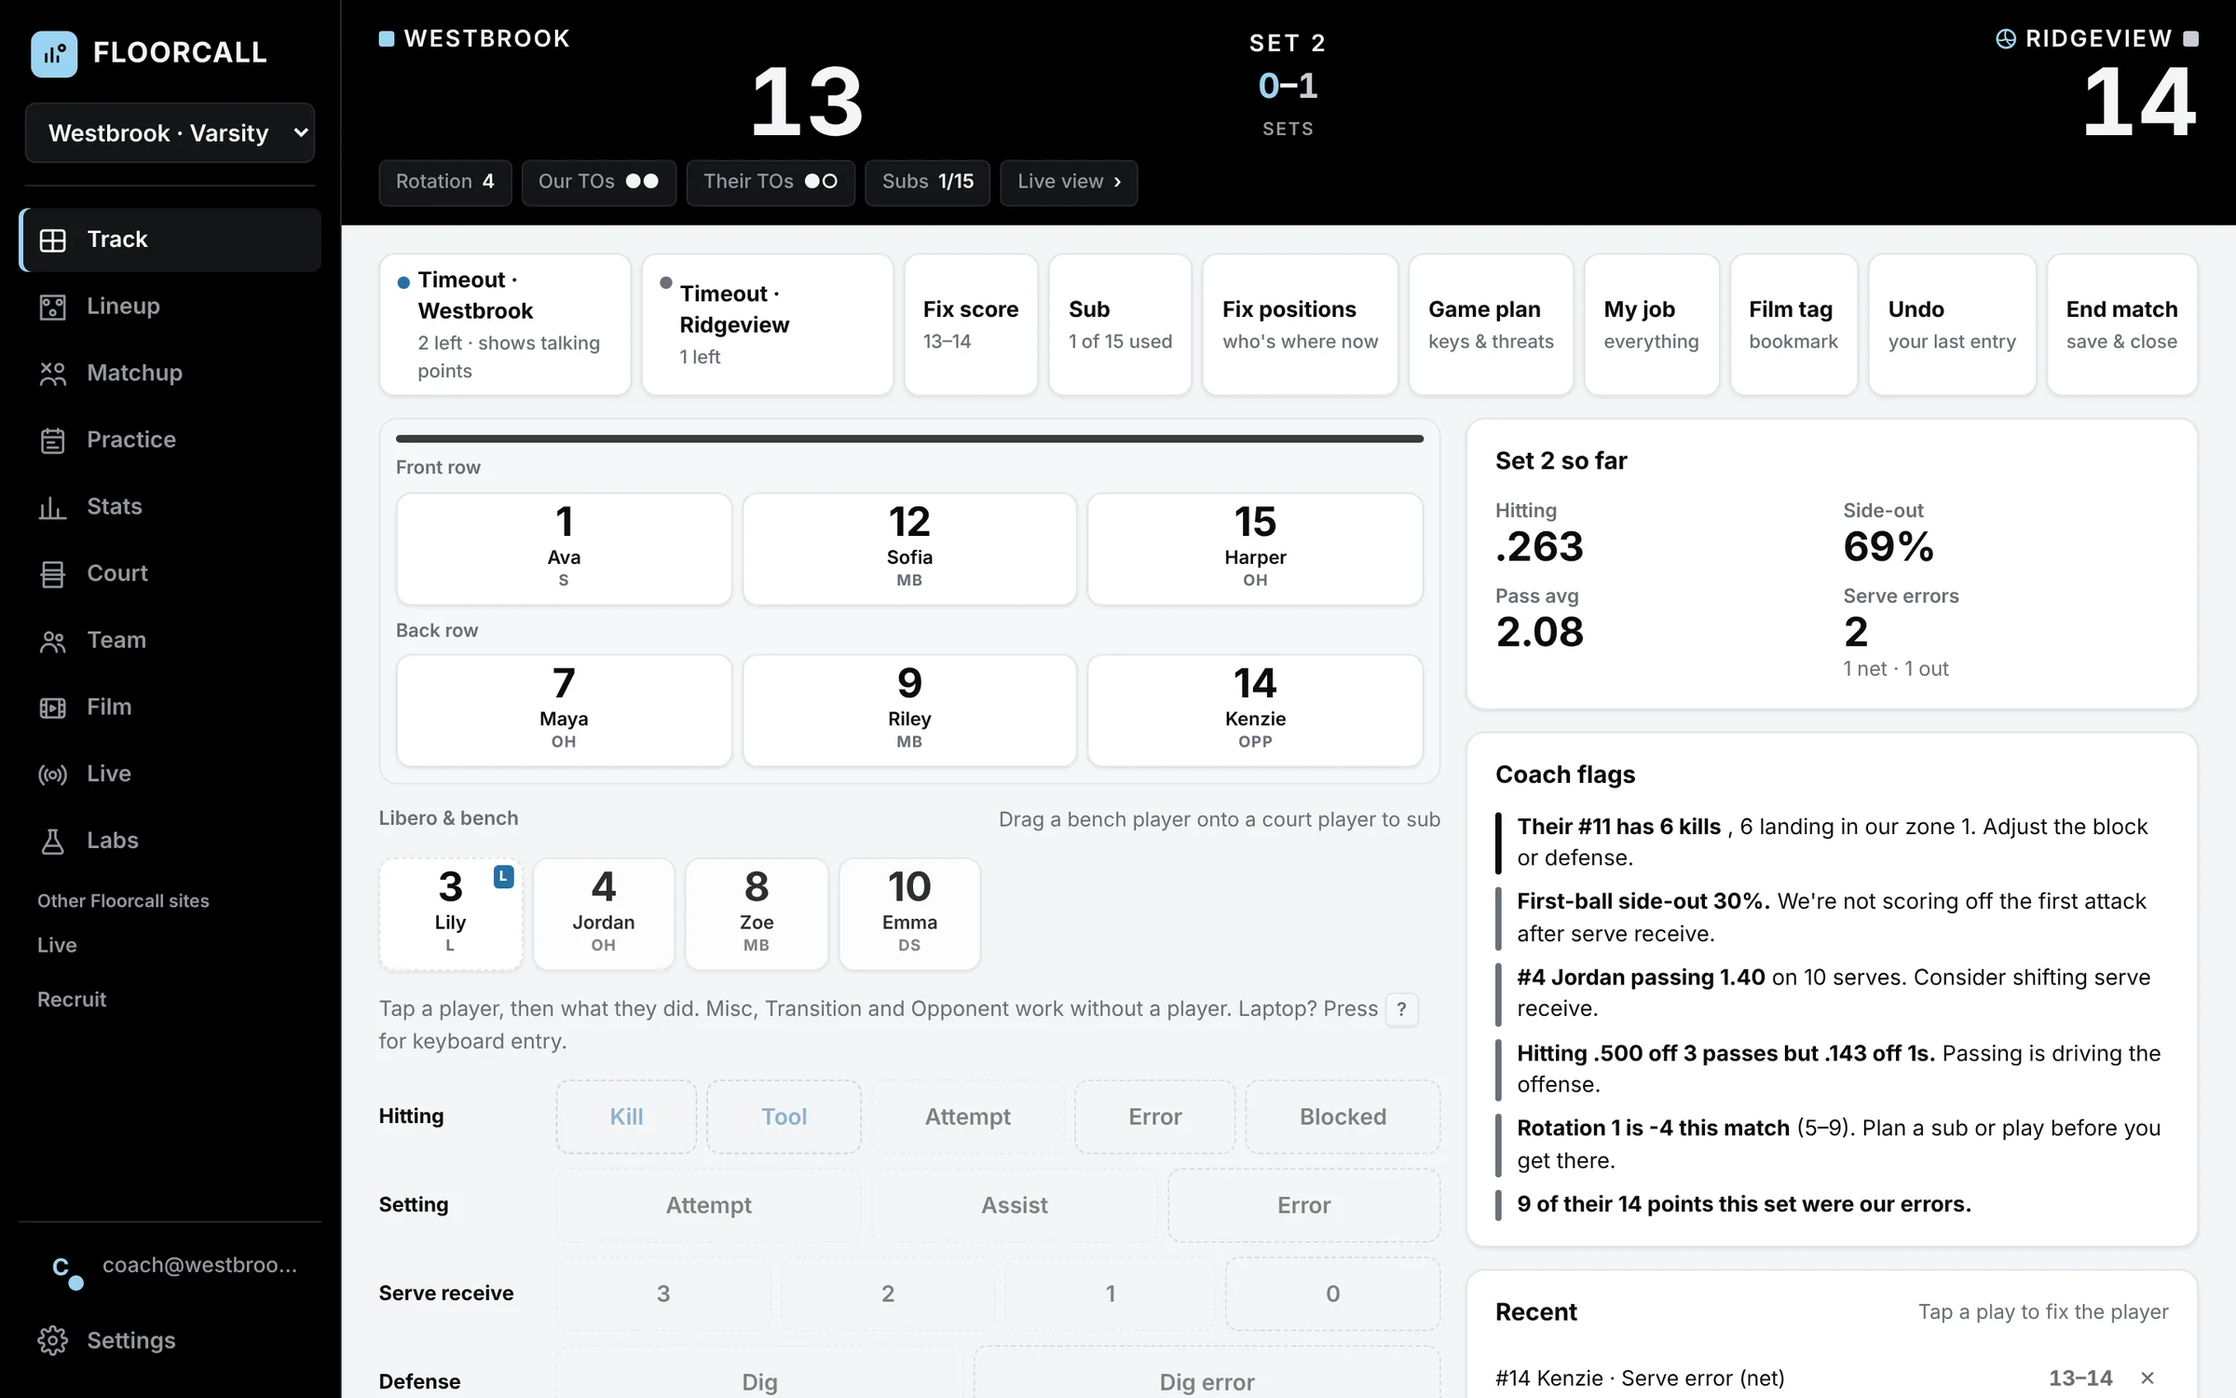
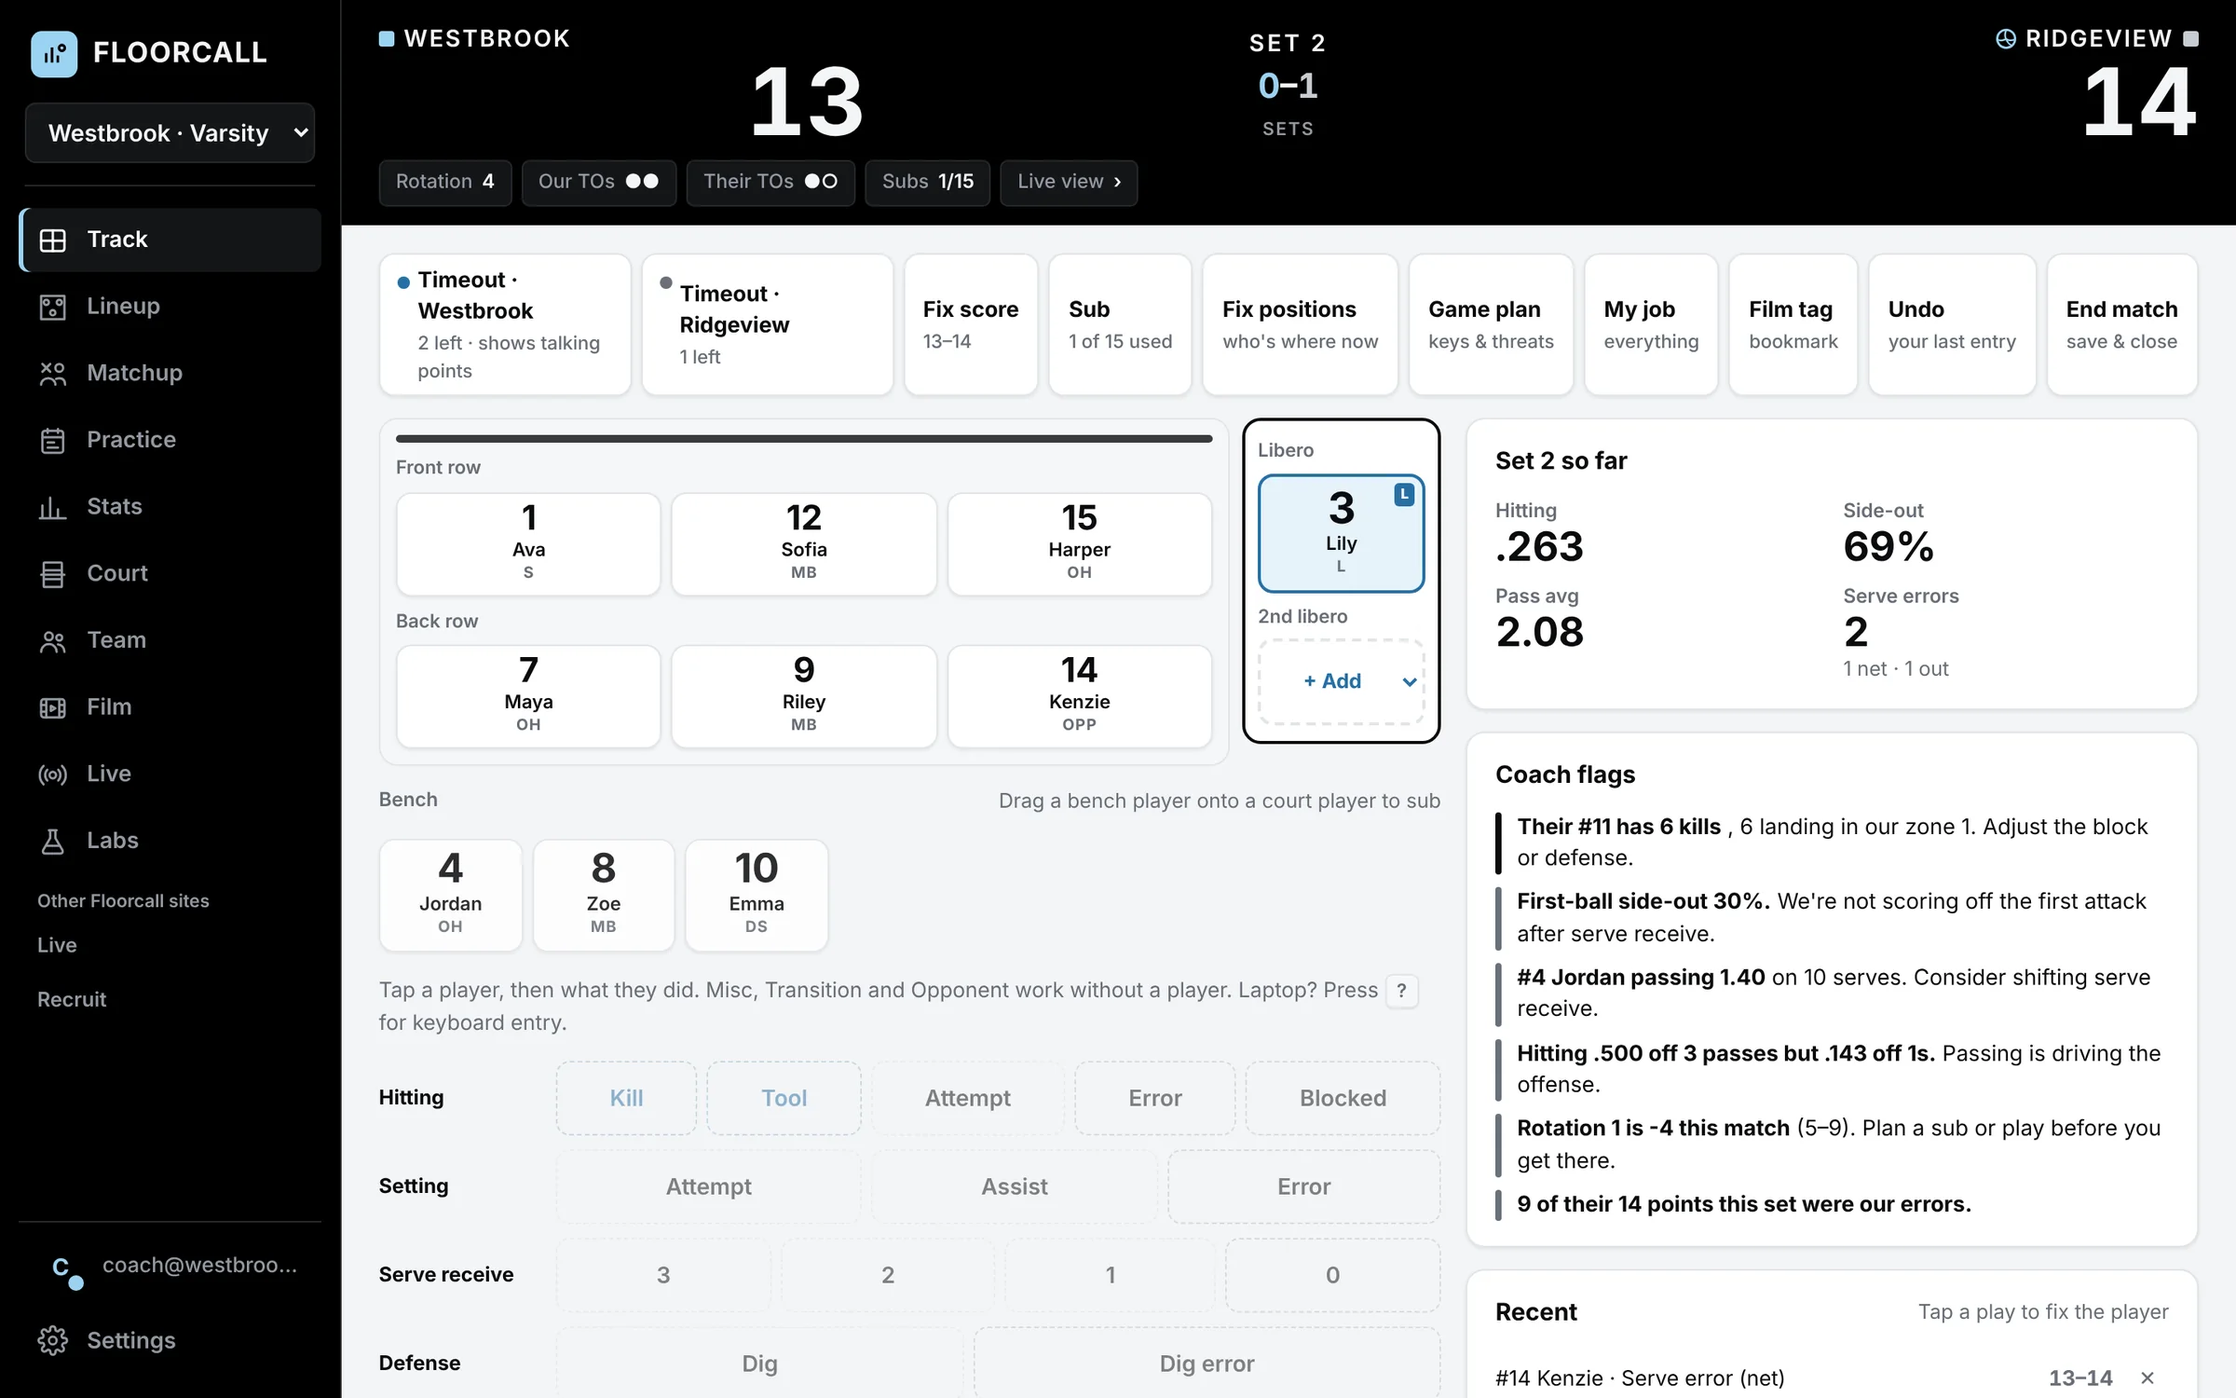
Live demo game that plays itself, product page shows the new Live
live.getfloorcall.com/#/demo plays a whole sample match point by point on
the real gamecast (court, play-by-play, box score, leaders) with pause,
speed and set jumps; no account or cloud needed. Linked from the Live
home page and the product page hero. Product page: new gamecast, box
score and leaders shots, a fresh tracking shot, and the newer features
in the list.

Claude-Session: https://claude.ai/code/session_01YRQnFVR7WDsKFYJfEAhBVD

diff --git a/public/about.html b/public/about.html
@@ -128,7 +128,7 @@ footer nav{display:flex;gap:20px;flex-wrap:wrap}footer a{color:var(--grey)}
 <section class="hero"><div class="wrap">
   <h1>The stat sheet that coaches from the bench.</h1>
   <p class="lead">Track every touch live, see the numbers that decide matches, and get stats to your players, families and recruiters before you leave the gym.</p>
-  <div class="btns"><a class="btn solid" href="%APP%#/account/signup">Create a free account</a><a class="btn plain" href="%APP%#/sample">Try a sample season</a></div>
+  <div class="btns"><a class="btn solid" href="%APP%#/account/signup">Create a free account</a><a class="btn plain" href="%LIVE%#/demo">Watch a live demo</a></div>
   <div class="hero-art">
     <div class="screen"><img src="shots/app-track.webp" width="2400" height="1500" alt="Floorcall during a match: the scoreboard, all six players in their rotation, stat buttons and coach flags such as their #11 having six kills"></div>
     <div class="phone"><img src="shots/live-game.webp" width="780" height="1688" alt="The same match on a parent's phone in Floorcall Live"></div>
@@ -159,13 +159,13 @@ footer nav{display:flex;gap:20px;flex-wrap:wrap}footer a{color:var(--grey)}
 <section class="sec soft" id="live"><div class="wrap">
   <div class="head">
     <h2>Families follow every point.</h2>
-    <p class="lead">Floorcall Live turns your tracking into a gamecast, box score and play-by-play on any phone. Share one link or a six-letter code, and followers get a notification when the match starts and ends.</p>
-    <a class="more" href="%LIVE%">Visit Floorcall Live</a>
+    <p class="lead">Floorcall Live turns your tracking into a broadcast-style gamecast: the court with where every ball landed, play-by-play with the player next to each play, a full box score and game leaders, on any phone. Share one link or a six-letter code, and followers get a notification when the match starts and ends.</p>
+    <a class="more" href="%LIVE%#/demo">Watch a demo game</a>
   </div>
   <div class="art phones">
-    <div class="phone side"><img src="shots/live-team.webp" width="780" height="1688" loading="lazy" alt="A team's page on Floorcall Live with the live score and recent plays"></div>
-    <div class="phone mid"><img src="shots/live-game.webp" width="780" height="1688" loading="lazy" alt="A live gamecast showing the score and who is on the court"></div>
-    <div class="phone side"><img src="shots/live-box.webp" width="780" height="1688" loading="lazy" alt="The box score with kills, errors, attempts and hitting percentage for each player"></div>
+    <div class="phone side"><img src="shots/live-box.webp" width="780" height="1688" loading="lazy" alt="The box score: starters and bench with kills, errors, attempts and hitting percentage, then the other team's players"></div>
+    <div class="phone mid"><img src="shots/live-game.webp" width="780" height="1688" loading="lazy" alt="The gamecast: the last play called out above the court, the ball's flight to where it landed, and the play-by-play below"></div>
+    <div class="phone side"><img src="shots/live-leaders.webp" width="780" height="1688" loading="lazy" alt="Game leaders for kills, points, assists and aces, with both teams side by side"></div>
   </div>
 </div></section>
 
@@ -200,9 +200,13 @@ footer nav{display:flex;gap:20px;flex-wrap:wrap}footer a{color:var(--grey)}
     <div><h3>Practice plans</h3><p>Built from what the stats say to work on, with a drill library and attendance.</p></div>
     <div><h3>Player pages</h3><p>Trends, goals and a report card for every player.</p></div>
     <div><h3>Ask your stats</h3><p>“Who should pass in rotation 2?” answered from your own numbers.</p></div>
+    <div><h3>An errors page</h3><p>Every point you gave away, by kind, by player and by rotation.</p></div>
+    <div><h3>Pick your stats</h3><p>Choose the columns you care about for the team or one player, then print.</p></div>
+    <div><h3>Their roster</h3><p>Enter their numbers, and names if you like, so you know who's scoring on you.</p></div>
     <div><h3>Fix plays</h3><p>Change, delete or add any play afterward. Everything recalculates.</p></div>
     <div><h3>Scrimmages</h3><p>Split the roster, track both sides and compare.</p></div>
     <div><h3>Keyboard entry</h3><p>Stat keepers on a laptop type a jersey number and a letter.</p></div>
+    <div><h3>Two liberos</h3><p>Name one or two and swap them between rallies; stats follow whoever is in.</p></div>
     <div><h3>Clubs</h3><p>Every team's record, numbers and next match on one screen.</p></div>
   </div>
 </div></section>

diff --git a/src/live/Demo.tsx b/src/live/Demo.tsx
@@ -1,0 +1,49 @@
+/** Floorcall Live demo (#/demo): a whole sample match that plays itself, point by point, on the real gamecast.
+ * No account, no cloud: the events are generated here and revealed on a timer, so anyone can see Live working. */
+import { useEffect, useMemo, useRef, useState } from "react";
+import { replay } from "../sports/volleyball/engine";
+import { SAMPLE_OPP_ROSTER, SAMPLE_ROSTER, sampleMatch } from "../sports/volleyball/sample";
+import { tr } from "../lib/i18n";
+import { placeUrl } from "../cloud/links";
+import { Game, LMatch, LPlayer } from "./data";
+import { GameView } from "./GameView";
+
+const SPEEDS = [1, 3, 10];
+const STEP = 2400; // ms between plays at 1×
+
+export function DemoGame({ Shell }: { Shell: any }) {
+  const events = useMemo(() => sampleMatch(23, Date.now() - 60 * 60000, { sets: 4, finished: true }), []);
+  const setStarts = useMemo(() => events.map((e, i) => (e.t === "NS" ? i : -1)).filter((i) => i >= 0), [events]);
+  const [n, setN] = useState(() => Math.min(events.length, (setStarts[0] || 0) + 34)); // open mid-set so there's a game on
+  const [speed, setSpeed] = useState(1), [paused, setPaused] = useState(false);
+  const timer = useRef<number | undefined>(undefined);
+  const done = n >= events.length;
+  useEffect(() => {
+    if (paused || done) return;
+    const next = events[n];
+    // touches inside a rally come quicker; a longer breath between sets
+    const wait = (next?.t === "NS" ? STEP * 2.5 : /^(P[0-3]|D|AST|SATT|TA|SI|BT|FB)$/.test(next?.t || "") ? STEP * 0.55 : STEP) / speed;
+    timer.current = window.setTimeout(() => setN((x) => Math.min(events.length, x + 1)), wait);
+    return () => window.clearTimeout(timer.current);
+  }, [n, paused, speed, done, events]);
+  useEffect(() => { document.title = tr("Demo game") + " · Floorcall Live"; }, []);
+
+  const players: LPlayer[] = SAMPLE_ROSTER.map((p) => ({ id: p.id, num: p.num, first: p.first, last: p.last[0], pos: p.pos, photo: null }));
+  const m: LMatch = { id: "demo", opp: "Ridgeview", date: new Date().toISOString().slice(0, 10), bestOf: 5, status: done ? "done" : "live", event: tr("Demo game"), site: "home", kind: "match", oppLogo: null, oppRoster: SAMPLE_OPP_ROSTER };
+  const g: Game = { m, R: replay(events.slice(0, n) as any, { id: "demo", bestOf: 5 }) };
+  const curSet = setStarts.filter((i) => i < n).length;
+  const jumpSet = (k: number) => { const i = setStarts[k]; if (i != null) setN(i + 1); };
+
+  return <Shell team="Westbrook">
+    <section className="lv-demo" aria-label={tr("Demo controls")}>
+      <div className="lv-demo-t"><b>{tr("Demo game")}</b><span>{tr("A sample match playing itself, just as families see a real one. Made-up teams and players.")}</span></div>
+      <div className="lv-demo-c">
+        <button className="btn sm" onClick={() => (done ? setN(setStarts[0] + 1) : setPaused(!paused))}>{done ? tr("Replay") : paused ? tr("Play") : tr("Pause")}</button>
+        <div className="lv-gc-seg" role="group" aria-label={tr("Speed")}>{SPEEDS.map((s) => <button key={s} aria-pressed={speed === s} onClick={() => setSpeed(s)}>{s}×</button>)}</div>
+        <div className="lv-gc-seg" role="group" aria-label={tr("Jump to set")}>{setStarts.map((_, k) => <button key={k} aria-pressed={curSet === k + 1} onClick={() => jumpSet(k)}>{tr("Set {n}", { n: k + 1 })}</button>)}</div>
+        <a className="btn sm primary" href={placeUrl("app", "#/account/signup")}>{tr("Get Floorcall for your team")}</a>
+      </div>
+    </section>
+    <GameView g={g} team="Westbrook" players={players} fresh={done ? tr("Final") : paused ? tr("Paused") : tr("Live demo · {s}×", { s: String(speed) })} logo={null} />
+  </Shell>;
+}

diff --git a/src/live/main.tsx b/src/live/main.tsx
@@ -16,6 +16,7 @@ import { Game, replayOf, useSeason, useWatch } from "./data";
 import { GameView } from "./GameView";
 import { TeamHub } from "./TeamHub";
 import { TeamLogo } from "../ui/Logo";
+import { DemoGame } from "./Demo";
 import { FilmSessionView } from "./FilmSession";
 import { Followed, forgetTeam, myTeams, rememberTeam, syncFollowed } from "./follow";
 import { MiniAuth, SignedIn } from "../cloud/MiniAuth";
@@ -85,6 +86,7 @@ function Landing() {
       <div><input id="code" value={code} onChange={(e) => setCode(e.target.value.toUpperCase())} placeholder="K7Q2XM" autoComplete="off" autoCapitalize="characters" spellCheck={false} maxLength={12} /><button className="btn primary" disabled={busy}>{tr(busy ? "Finding…" : "Follow")}</button></div>
       {err && <p className="lv-err" role="alert">{err}</p>}
     </form>
+    <p className="lv-demo-link"><a href="#/demo">{tr("No code? Watch a demo game")}</a></p>
     {cloudAvailable() && (currentUser() ? <SignedIn t={tr} onOut={() => location.reload()} />
       : signin ? <MiniAuth kind="parent" title={tr("Sign in to see your teams on this phone")} sub={tr("Your teams follow your account to every phone.")} t={tr} onIn={() => location.reload()} />
       : <button className="ma-link lv-signin" onClick={() => setSignin(true)}>{tr("Sign in to see your teams on this phone")}</button>)}
@@ -100,6 +102,7 @@ function LiveApp() {
   if ((r[0] === "t" || r[0] === "g") && r[1] && r[2] === "overlay") return r[0] === "t" ? <TeamRoute key={r[1]} code={r[1].toUpperCase()} rest={[]} /> : <GameRoute key={r[1]} code={r[1].toUpperCase()} />;
   if (r[0] === "t" && r[1]) return <TeamRoute key={r[1]} code={r[1].toUpperCase()} rest={r.slice(2)} />;
   if (r[0] === "g" && r[1]) return <GameRoute key={r[1]} code={r[1].toUpperCase()} />;
+  if (r[0] === "demo") return <DemoGame Shell={Shell} />;
   if (r[0] === "film" && r[1]) return <FilmSessionView key={r[1]} code={r[1].toUpperCase()} Shell={Shell} />;
   return <Landing />;
 }

diff --git a/src/live/live.css b/src/live/live.css
@@ -312,3 +312,13 @@ a.lv-ldr-p:hover b,.lv-ldr-next:hover b{text-decoration:underline}
 .lv-more-row{margin:-4px 0 0;text-align:right;font-weight:600}
 .lv-ebox-h.them{border-bottom-color:#5E6873}
 @media (max-width:560px){.lv-ldr-p.us{border-left:3px solid var(--us);padding-left:10px}.lv-ldr-p.them{border-left:3px solid #8A9099!important;padding-left:10px!important}.lv-ldr-row{grid-template-columns:1fr;gap:10px}.lv-ldr-p.them{padding-left:0;border-left:0;padding-top:10px;border-top:1px dashed var(--line)}.lv-ldr-teams{display:none}.lv-ldr-p strong{font-size:28px}}
+
+/* ---------- demo game ---------- */
+.lv-demo{display:grid;gap:10px;padding:12px 14px;margin:0 0 14px;border-radius:14px;background:#000;color:#fff}
+.lv-demo-t{display:grid;gap:2px}.lv-demo-t b{font:700 15px var(--display);letter-spacing:.08em;text-transform:uppercase;color:var(--us-bright)}.lv-demo-t span{font-size:13.5px;color:#B8C2CC}
+.lv-demo-c{display:flex;flex-wrap:wrap;gap:8px;align-items:center}
+.lv-demo .lv-gc-seg{background:#111;border-color:#333}.lv-demo .lv-gc-seg button{color:#B8C2CC}.lv-demo .lv-gc-seg button[aria-pressed="true"]{background:#fff;color:#000}
+.lv-demo .btn:not(.primary){background:#1B232B;border-color:#333;color:#fff}
+.lv-demo .btn.primary{margin-left:auto}
+@media (max-width:560px){.lv-demo{gap:8px;padding:10px 12px}.lv-demo-t span{display:none}.lv-demo .btn.primary{margin-left:0;width:100%;justify-content:center}.lv-demo .lv-gc-seg button{padding:6px 8px}}
+.lv-demo-link{margin:14px 0 0;font-weight:600}

diff --git a/src/data/seed.ts b/src/data/seed.ts
@@ -1,7 +1,7 @@
 /** Starter content: a drill library for every new team, and a full sample team to explore. */
 import { Drill, Match, Player, PracticePlan } from "./model";
 import { all, appendEvents, createTeam, localISO, save, setTeamPatch, team, uid } from "./store";
-import { SAMPLE_ROSTER, sampleMatch } from "../sports/volleyball/sample";
+import { SAMPLE_OPP_ROSTER, SAMPLE_ROSTER, sampleMatch } from "../sports/volleyball/sample";
 
 const DRILLS: [string, string, number, string, string[]][] = [
   ["Dynamic warm-up + arm care", "Warm-up", 10, "Jog, skips, lunges, band work for shoulders.", []],
@@ -42,7 +42,7 @@ export function createSampleTeam() {
     return x;
   });
   const opps = ["Ridgeview", "Lakeside", "Westbrook", "Valley Prep"];
-  const RIDGE = { "11": { name: "Kayla Moore", pos: "OH" }, "7": { name: "Tess Rivera", pos: "MB" }, "3": { name: "Jada Kim", pos: "S" }, "15": { name: "Brooke Hale", pos: "OPP" }, "9": { name: "Nina Cole", pos: "OH" } };
+  const RIDGE = SAMPLE_OPP_ROSTER;
   const day = 86400000, now = Date.now();
   opps.forEach((opp, i) => {
     const date = new Date(now - (opps.length - i) * 7 * day);

diff --git a/src/live/Court.tsx b/src/live/Court.tsx
@@ -176,8 +176,8 @@ export function GameCourt({ c, P, log, team, them, follow, logos, live, ro }: { 
 
 /** A team name painted in the free zone behind an end line, sized to fit. */
 function EndName({ x, turn, name, side }: { x: number; turn: number; name: string; side: "us" | "them" }) {
-  const fit = Math.min(25, (8.6 * S) / Math.max(1, name.length * 0.92));
-  return <text transform={`translate(${x} ${cy(4.5)}) rotate(${turn})`} className={"fc-endname " + side} style={{ fontSize: fit, letterSpacing: fit > 20 ? "0.24em" : "0.12em" }} textAnchor="middle" dominantBaseline="central">{name}</text>;
+  const fit = Math.min(25, (8.2 * S) / Math.max(1, name.length * (name.length <= 7 ? 1.05 : 0.86)));
+  return <text transform={`translate(${x} ${cy(4.5)}) rotate(${turn})`} className={"fc-endname " + side} style={{ fontSize: fit, letterSpacing: name.length <= 7 ? "0.24em" : "0.1em" }} textAnchor="middle" dominantBaseline="central">{name}</text>;
 }
 
 /** A team mark painted in the middle of its half: the logo, or big initials. */

diff --git a/src/sports/volleyball/sample.ts b/src/sports/volleyball/sample.ts
@@ -3,6 +3,8 @@ import type { MatchEvent } from "./engine";
 
 export interface SamplePlayer { id: string; num: string; first: string; last: string; pos: string; grad: number }
 
+/** The sample opponent's roster (fictional players), for the sample season and the Live demo. */
+export const SAMPLE_OPP_ROSTER: Record<string, { name: string; pos: string }> = { "11": { name: "Kayla Moore", pos: "OH" }, "7": { name: "Tess Rivera", pos: "MB" }, "3": { name: "Jada Kim", pos: "S" }, "15": { name: "Brooke Hale", pos: "OPP" }, "9": { name: "Nina Cole", pos: "OH" } };
 export const SAMPLE_ROSTER: SamplePlayer[] = [
   ["1", "Ava", "Ramirez", "S", 2027], ["4", "Jordan", "Lee", "OH", 2028], ["7", "Maya", "Chen", "OH", 2027], ["9", "Riley", "Brooks", "MB", 2027],
   ["12", "Sofia", "Nguyen", "MB", 2028], ["14", "Kenzie", "Park", "OPP", 2027], ["3", "Lily", "Torres", "L", 2029], ["10", "Emma", "Diaz", "DS", 2028],
